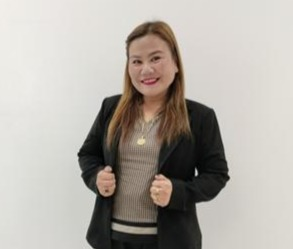
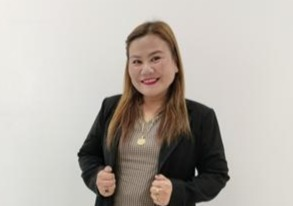
adda

Changed region(s): [[0.2457, 0.0583, 0.7986, 1.0]]

diff --git a/sgod-about.html b/sgod-about.html
@@ -177,7 +177,7 @@
   <div class="org-row">
     <div class="org-card">
       <div class="org-image-container">
-        <img src="Assets/stock.jpg" alt="Louie L. Saldivar" class="org-image">
+        <img src="Assets/Employee Pictures/Louie.jpg" alt="Louie L. Saldivar" class="org-image">
       </div>
       <div class="org-info">
         <div class="org-title">LOUIE L. SALDIVAR</div>
@@ -186,7 +186,7 @@
     </div>
     <div class="org-card">
       <div class="org-image-container">
-        <img src="Assets/stock.jpg" alt="Gemma Bel C. Ojeda" class="org-image">
+        <img src="Assets/Employee Pictures/Gemma.jpg" alt="Gemma Bel C. Ojeda" class="org-image">
       </div>
       <div class="org-info">
         <div class="org-title">GEMMA BEL C. OJEDA</div>
@@ -200,7 +200,7 @@
   <div class="org-row">
     <div class="org-card">
       <div class="org-image-container">
-        <img src="Assets/stock.jpg" alt="Jason G. Sagaysay" class="org-image">
+        <img src="Assets/Employee Pictures/Jason.jpg" alt="Jason G. Sagaysay" class="org-image">
       </div>
       <div class="org-info">
         <div class="org-title">JASON G. SAGAYSAY</div>
@@ -209,7 +209,7 @@
     </div>
     <div class="org-card">
       <div class="org-image-container">
-        <img src="Assets/stock.jpg" alt="Floro L. Peria Jr." class="org-image">
+        <img src="Assets/Employee Pictures/Floro.jpg" alt="Floro L. Peria Jr." class="org-image">
       </div>
       <div class="org-info">
         <div class="org-title">FLORO L. PERIA JR.</div>
@@ -218,7 +218,7 @@
     </div>
     <div class="org-card">
       <div class="org-image-container">
-        <img src="Assets/stock.jpg" alt="Lea Wadel D. Ibayan" class="org-image">
+        <img src="Assets/Employee Pictures/Lea.jpg" alt="Lea Wadel D. Ibayan" class="org-image">
       </div>
       <div class="org-info">
         <div class="org-title">LEA WADEL D. IBAYAN</div>
@@ -232,7 +232,7 @@
   <div class="org-row">
     <div class="org-card">
       <div class="org-image-container">
-        <img src="Assets/stock.jpg" alt="Jeanne Elanie T. Sangalang" class="org-image">
+        <img src="Assets/Employee Pictures/Elaine.jpg" alt="Jeanne Elanie T. Sangalang" class="org-image">
       </div>
       <div class="org-info">
         <div class="org-title">JEANNE ELANIE T. SANGALANG</div>
@@ -241,10 +241,10 @@
     </div>
     <div class="org-card">
       <div class="org-image-container">
-        <img src="Assets/stock.jpg" alt="Moulder M. Lumague" class="org-image">
+        <img src="Assets/Employee Pictures/Mouller.jpg" alt="Mouller M. Lumague" class="org-image">
       </div>
       <div class="org-info">
-        <div class="org-title">MOULDER M. LUMAGUE</div>
+        <div class="org-title">MOULLER M. LUMAGUE</div>
         <div class="org-role">Planning Officer III</div>
       </div>
     </div>
@@ -255,7 +255,7 @@
   <div class="org-row">
     <div class="org-card">
       <div class="org-image-container">
-        <img src="Assets/stock.jpg" alt="Colene Agatha A. Uy, MD" class="org-image">
+        <img src="Assets/Employee Pictures/Colleen Health Agatha Medical Officer III.jpg" alt="Colene Agatha A. Uy, MD" class="org-image">
       </div>
       <div class="org-info">
         <div class="org-title">COLENE AGATHA A. UY, MD</div>
@@ -264,16 +264,16 @@
     </div>
     <div class="org-card">
       <div class="org-image-container">
-        <img src="Assets/stock.jpg" alt="Karien Jane Y. Bernabe, DMD" class="org-image">
+        <img src="Assets/Employee Pictures/Karen.jpg" alt="Karen Jane Y. Bernabe, DMD" class="org-image">
       </div>
       <div class="org-info">
-        <div class="org-title">KARIEN JANE Y. BERNABE, DMD</div>
+        <div class="org-title">KAREN JANE Y. BERNABE, DMD</div>
         <div class="org-role">Dentist II</div>
       </div>
     </div>
     <div class="org-card">
       <div class="org-image-container">
-        <img src="Assets/stock.jpg" alt="Jessica M. Liera, DMD" class="org-image">
+        <img src="Assets/Employee Pictures/Jessica.jpg" alt="Jessica M. Liera, DMD" class="org-image">
       </div>
       <div class="org-info">
         <div class="org-title">JESSICA M. LIERA, DMD</div>
@@ -282,7 +282,7 @@
     </div>
     <div class="org-card">
       <div class="org-image-container">
-        <img src="Assets/stock.jpg" alt="Venus G. Manalo, RN" class="org-image">
+        <img src="Assets/Employee Pictures/Venus.jpg" alt="Venus G. Manalo, RN" class="org-image">
       </div>
       <div class="org-info">
         <div class="org-title">VENUS G. MANALO, RN</div>
@@ -291,16 +291,16 @@
     </div>
     <div class="org-card">
       <div class="org-image-container">
-        <img src="Assets/stock.jpg" alt="Jerwin Christian N. Inovero, RN" class="org-image">
+        <img src="Assets/Employee Pictures/Jeremy.jpg" alt="Jeremy Christian N. Inovero, RN" class="org-image">
       </div>
       <div class="org-info">
-        <div class="org-title">JERWIN CHRISTIAN N. INOVERO, RN</div>
+        <div class="org-title">JEREMY CHRISTIAN N. INOVERO, RN</div>
         <div class="org-role">Nurse II</div>
       </div>
     </div>
     <div class="org-card">
       <div class="org-image-container">
-        <img src="Assets/stock.jpg" alt="Myra L. Liangco, RN" class="org-image">
+        <img src="Assets/Employee Pictures/Myra.jpg" alt="Myra L. Liangco, RN" class="org-image">
       </div>
       <div class="org-info">
         <div class="org-title">MYRA L. LIANGCO, RN</div>
